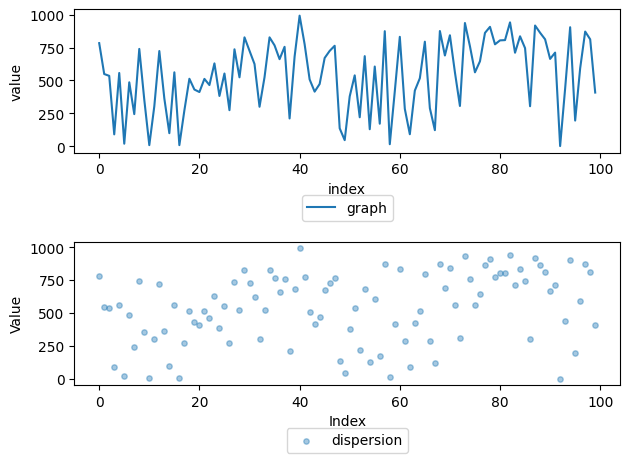
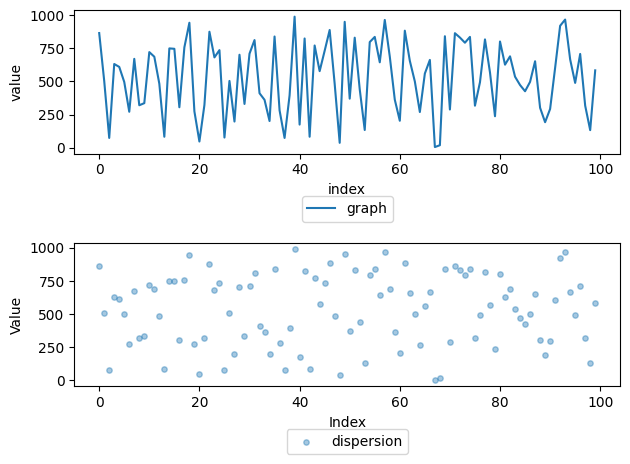
mod08 update

diff --git a/mod08/ex2/oracle.py b/mod08/ex2/oracle.py
@@ -21,7 +21,7 @@ DEFAULT = {
 SHELL_WINS = True
 
 
-def load_config() -> tuple[dict, list]:
+def load_config() -> tuple[dict[str, str | None], list[str]]:
     load_dotenv(override=not SHELL_WINS)
     config = {}
     missing = []
@@ -32,10 +32,6 @@ def load_config() -> tuple[dict, list]:
             value = DEFAULT.get(key)
         config[key] = value
     return (config, missing)
-
-
-def mask_key(key: str) -> str:
-    return "*" * (len(key) - 4) + key[-4:]
 
 
 def check_api(key: str | None) -> bool:
@@ -102,11 +98,16 @@ def main() -> None:
         print(f"[UNSET] {key}")
     mode = config["MATRIX_MODE"]
     if mode not in ("development", "production"):
-        raise ValueError(f"[ERROR] Invalid matrix mode: {mode}")
+        print(f"[ERROR] Invalid matrix mode: {mode}", file=sys.stderr)
+        sys.exit(1)
     if mode == "production" and missing:
-        raise ValueError("[ERROR] Production mode requires all variables set")
+        print(
+                "[ERROR] Production mode requires all variables set",
+                file=sys.stderr
+        )
+        sys.exit(1)
     api_status = (
-            "authenticated"
+            "Authenticated"
             if check_api(config["API_KEY"])
             else "Unauthenticated"
     )
@@ -116,11 +117,11 @@ def main() -> None:
         f"Database: {get_database_status(config)}\n"
         f"API Access: {api_status}\n"
         f"Log Level: {config['LOG_LEVEL']}\n"
-        f"Zion Network: online\n"
+        f"Zion Network: {'Online' if config['ZION_ENDPOINT'] else 'Offline'}\n"
     )
     print("Environment security check:")
     display_security_checks(config)
-    print("\nThe oracle sees all configurations")
+    print("\nThe Oracle sees all configurations")
 
 
 if __name__ == "__main__":

diff --git a/mod08/ex1/loading.py b/mod08/ex1/loading.py
@@ -65,7 +65,14 @@ def show_import_status(modules: dict[str, Dependency]) -> None:
         sys.exit(1)
 
 
-def generate_matrix_data(low: float, high: float, size: int) -> Any:
+def show_pip_vs_poetry() -> None:
+    print(
+            "\nDependency management:\n"
+            "pip    : requirements.txt, install what is listed\n"
+            "Poetry : pyproject.toml + poetyr.lock. manages its own venv"
+    )
+
+def generate_matrix_data(low: int, high: int, size: int) -> Any:
     assert isinstance(np, ModuleType)
     return np.random.randint(low, high, size)
 
@@ -80,7 +87,6 @@ def generate_data_image(dataset: Any, filename: str) -> None:
     axs[0].plot(df.index, df, label="graph")
     axs[0].set_xlabel("index")
     axs[0].set_ylabel("value")
-    axs[0].legend()
     axs[0].legend(loc='upper center', bbox_to_anchor=(0.5, -0.25))
     axs[1].scatter(df.index, df, alpha=0.4, s=15, label="dispersion")
     axs[1].set_xlabel("Index")
@@ -99,6 +105,7 @@ def main() -> None:
     global plt
     import_all(DEPENDENCIES)
     show_import_status(DEPENDENCIES)
+    show_pip_vs_poetry()
     pd = DEPENDENCIES["pandas"].obj
     np = DEPENDENCIES["numpy"].obj
     plt = DEPENDENCIES["matplotlib.pyplot"].obj

diff --git a/mod08/ex0/construct.py b/mod08/ex0/construct.py
@@ -23,9 +23,9 @@ def print_not_in_venv_msg() -> None:
         "Warning: You're in the global environment!\n"
         "The machines can see everything you install.\n\n"
         "To enter the construct, run:\n"
-        "python -m venv matrix_venv\n"
+        "python -m venv matrix_env\n"
         "source matrix_env/bin/activate # On Unix\n"
-        "matrix_env/Scripts/activate # On Windows\n\n"
+        "matrix_env\\Scripts\\activate # On Windows\n\n"
         "Then run this program again."
     )
 
@@ -35,7 +35,7 @@ def print_in_venv_msg() -> None:
     curr_python = sys.executable
     pkg_path = get_sitepkg_path(env_name)
     print(
-        "MATRIX STATUS: Welcome to the construct\n"
+        "MATRIX STATUS: Welcome to the construct\n\n"
         f"Current Python: {curr_python}\n"
         f"Virtual Environment: {env_name}\n"
         f"Environment Path: {sys.prefix}\n\n"
